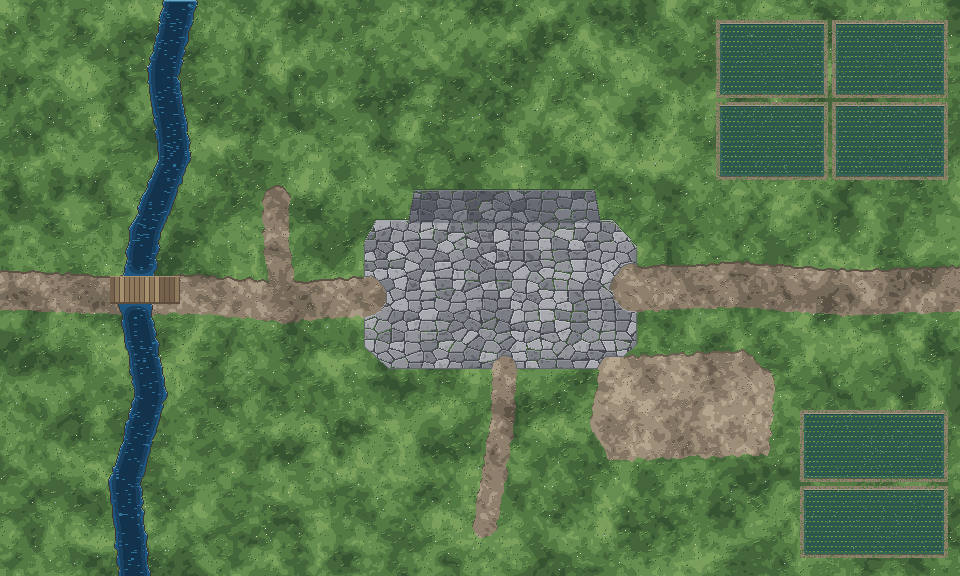
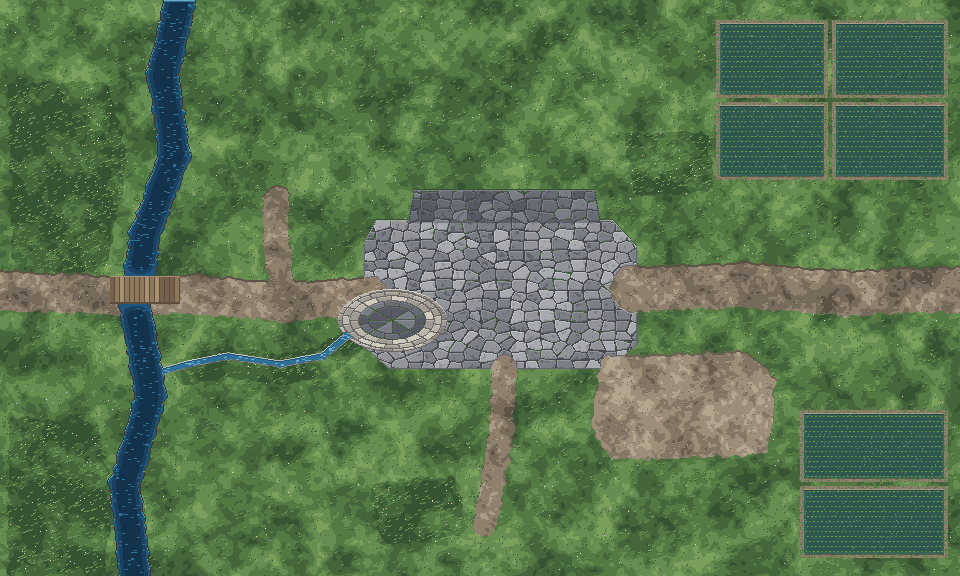
feat(world): the Lạc Hà spring stands at the centre of the floor's lightest ground
The spring that bears the village's name was a 52x30 px basin on the corner of
the square, on the square's own flags; no line led to it, and all eight trees
stood alone on a lawn (the style DNA says "clusters, never sprinkles").

Three new KINDS in the existing ground painter, placed by layout data:
- court: stones laid in rings round an ellipse, paler than the square, with a
  wet ring round the basin and a shadowed near edge;
- rill: the spring's overflow, a stone-lined runnel back to the stream
  (INTANGIBLE_BY_DESIGN: no blocker, no flooded cell);
- lush: undergrowth, so trees stand in groves over a dark mass.
No collision, anchor or prop footprint changes. The forest floor and its
layout data repaint to the same bytes; the village floor is identical under
PYTHONHASHSEED 1, 2 and 7.

Measured, because the first court was DARKER than the square (0.51 mean
luminance against 0.54, under its own mortar): each quarter of the paving is
now 0.61-0.66, the square 0.54, the meadow 0.45, and a test holds every
quarter 0.05 above both. The scene sync dropped six swaying tufts standing on
the new undergrowth (it did not count it as turf): fixed, and pinned at 27.

Not chosen: a great tree over the spring. At a 30-degree top-down view its
canopy projects north, over the west road, an NPC and the well.

Mutations 5/5 red: court removed, court moved 24 px, paving a tone darker, a
blocker over the runnel, sync not counting undergrowth.

diff --git a/tools/aetheria_art_pipeline/world/ground.py b/tools/aetheria_art_pipeline/world/ground.py
@@ -35,12 +35,17 @@ ST = style.load()
 
 # Material codes (the order is the paint priority when two shapes overlap: later wins).
 GRASS, STONE, STONE_DARK, EARTH, YARD, WATER, BRIDGE, PADDY, BUND, FOREST, LITTER, \
-    FISSURE, ROCK = range(13)
+    FISSURE, ROCK, COURT, RILL, LUSH = range(16)
 KINDS = {"grass": GRASS, "stone": STONE, "stone_dark": STONE_DARK, "earth": EARTH,
          "yard": YARD, "water": WATER, "bridge": BRIDGE, "paddy": PADDY, "forest": FOREST,
-         "litter": LITTER, "fissure": FISSURE, "rock": ROCK}
+         "litter": LITTER, "fissure": FISSURE, "rock": ROCK, "court": COURT, "rill": RILL,
+         "lush": LUSH}
 ROUGH = {EARTH: 2.2, YARD: 2.5, WATER: 2.0, STONE: 0.0, STONE_DARK: 0.0, BRIDGE: 0.0,
-         PADDY: 0.0, FOREST: 3.0, LITTER: 3.2, FISSURE: 1.6, GRASS: 2.5, ROCK: 3.0}
+         PADDY: 0.0, FOREST: 3.0, LITTER: 3.2, FISSURE: 1.6, GRASS: 2.5, ROCK: 3.0,
+         COURT: 0.0, RILL: 0.0, LUSH: 3.0}
+# Everything that is turf to its neighbours (a path's shadow lip, a bank's wet ring).
+TURF = (GRASS, LUSH)
+PAVED = (STONE, STONE_DARK, COURT)
 
 # Ramps [deep, shadow, base, light] — the DNA world roles where one exists, their neighbours
 # where the ramp needs a step the palette does not name.
@@ -69,6 +74,22 @@ MORTAR = (70, 72, 80)
 WET_BANK = (60, 54, 46)
 RICE = [(62, 110, 52), (86, 138, 62), (112, 160, 76)]
 FLOWERS = [(232, 224, 168), (214, 198, 230), (236, 236, 228)]
+# A LAID COURT (docs/VISUAL_CRAFT_WORKFLOW.md, proof W1): stones set in rings round one centre,
+# so the paving itself points at what stands there. Paler and warmer than the square's worn
+# flags — the one place in a village somebody dressed the stone — and it is the floor's
+# brightest material, which is what gives a frame of meadow a light end to its value range.
+RAMPS[COURT] = [(104, 100, 100), (134, 130, 126), (160, 156, 148), (186, 182, 170),
+                (208, 204, 190)]
+# ring edges as a fraction of the court's radius, and how many stones each ring is cut into:
+# the basin's bed, the wet ring the water darkens, two rings of paving, the kerb
+COURT_RINGS = [0.44, 0.62, 0.78, 0.92]
+COURT_STONES = [8, 12, 16, 20, 28]
+COURT_WET_RING = 1
+# Undergrowth: the meadow where nobody walks — a darker, taller sward thick with tufts and
+# flowers. It is how trees and water get a MASS under them instead of standing on a lawn.
+LUSH_DARKER = 0.3
+LUSH_TUFTS = 2.5
+LUSH_FLOWERS = 0.004
 
 
 def _hash(x, y, seed):
@@ -92,7 +113,10 @@ def _mask(w, h, ox, oy, shape, roughen=0.0, seed=0):
     materials meet in an organic line instead of a ruler edge."""
     m = Image.new("L", (w, h), 0)
     d = ImageDraw.Draw(m)
-    if "poly" in shape:
+    if "ellipse" in shape:
+        cx, cy, rx, ry = shape["ellipse"]
+        d.ellipse([cx - ox - rx, cy - oy - ry, cx - ox + rx, cy - oy + ry], fill=255)
+    elif "poly" in shape:
         d.polygon([(x - ox, y - oy) for x, y in shape["poly"]], fill=255)
     elif "rect" in shape:
         x, y, rw, rh = shape["rect"]
@@ -167,6 +191,7 @@ def paint(layout_path):
     base = KINDS[L.get("base", "grass")]
     mat = [base] * (w * h)
     region_masks = {}
+    courts = [shape["ellipse"] for shape in L["regions"] if shape["kind"] == "court"]
     for k, shape in enumerate(L["regions"]):
         code = KINDS[shape["kind"]]
         rough = ROUGH[code]
@@ -201,6 +226,19 @@ def paint(layout_path):
         if 0 <= x < w and 0 <= y < h:
             return mat[y * w + x]
         return GRASS
+
+    def court_stone(wx, wy):
+        """(ring, stone) of the court paving under a world pixel: rings round the centre of
+        the court it lies in, each ring cut into its own count of stones, alternate rings
+        turned half a stone so no joint runs straight through two of them."""
+        for cx, cy, rx, ry in courts:
+            u, v = (wx - cx) / float(rx), (wy - cy) / float(ry)
+            r = math.hypot(u, v)
+            if r <= 1.02:
+                ring = sum(1 for edge in COURT_RINGS if r >= edge)
+                turn = (math.atan2(v, u) / math.tau + 0.5 + 0.5 * (ring % 2) / COURT_STONES[ring])
+                return ring, int(turn * COURT_STONES[ring]) % COURT_STONES[ring]
+        return 0, 0
 
     for y in range(h):
         for x in range(w):
@@ -242,21 +280,61 @@ def paint(layout_path):
                     c = ramp[max(0, min(3, base_t))]
                     if (y - 1) >= 0 and stone_mortar[i - w]:
                         c = ramp[min(3, base_t + 1)]
-            elif m == GRASS:
+            elif m in TURF:
                 # broad sunlit drifts, a little mid-scale clumping, a whisper of grain: a
                 # meadow, not camouflage (the first pass had the contrast of a pattern)
                 t = 0.5 + 0.62 * (n_big[i] - 0.5) + 0.38 * (n_mid[i] - 0.5) \
                     + 0.18 * (n_fine[i] - 0.5)
+                if m == LUSH:
+                    t -= LUSH_DARKER
                 c = _tone(RAMPS[GRASS], t)
                 # the grass's shadow on lower ground just below it is painted on THAT ground;
                 # here: a darker blade line where grass meets a raised paving to its south
-                if at(x, y + 1) in (STONE, STONE_DARK):
+                if at(x, y + 1) in PAVED:
                     c = RAMPS[GRASS][0]
+            elif m == COURT:
+                ramp = RAMPS[COURT]
+                ring, stone = court_stone(wxp, wyp)
+                here = (ring, stone)
+                if at(x, y + 1) != COURT:
+                    c = ramp[0]              # the dais's own thickness, in shadow on the near side
+                elif at(x, y - 1) != COURT:
+                    c = ramp[4]              # ...and its far edge catching the key light
+                elif court_stone(wxp + 1, wyp) != here or court_stone(wxp, wyp + 1) != here:
+                    damp = ring <= COURT_WET_RING and _hash(wxp, wyp, 121) < 0.6
+                    # moss where the water reaches; elsewhere a tight pale joint — dressed
+                    # stone is laid close, and the square's dark mortar would grey the court
+                    c = RAMPS[GRASS][1] if damp else (MORTAR if ring <= COURT_WET_RING
+                                                     else ramp[0])
+                else:
+                    wet = ring <= COURT_WET_RING
+                    ramp = RAMPS[STONE_DARK] if wet else ramp
+                    base = 1 + int(_hash(ring * 131 + stone, 7, 123) * 2.6)
+                    if not wet and ring < len(COURT_RINGS):
+                        base += 1                                # the paving: the pale end
+                    c = ramp[base]
+                    if court_stone(wxp, wyp - 1) != here:
+                        c = ramp[min(len(ramp) - 1, base + 1)]   # the lit bevel
+            elif m == RILL:
+                # a stone-lined runnel a hand deep: the spring's overflow, stepped over, never
+                # waded (INTANGIBLE_BY_DESIGN — no blocker, no flooded cell)
+                above, below = at(x, y - 1), at(x, y + 1)
+                open_to = (RILL, COURT, WATER, BRIDGE)
+                laid = int(_hash(wxp // 4, 3, 125) * 1.99)       # kerb stones, 4 px each
+                if above not in open_to:
+                    c = RAMPS[COURT][3 + laid]      # the far kerb, lit
+                elif below not in open_to:
+                    c = RAMPS[COURT][1 - laid]      # the near kerb
+                elif at(x, y - 2) not in open_to:
+                    c = RAMPS[WATER][2]      # the kerb's shadow on the water
+                else:
+                    glint = _hash(wxp // 3, wyp, 127) < 0.16
+                    c = RAMPS[WATER][4] if glint else RAMPS[WATER][3]
             elif m in (EARTH, YARD):
                 ramp = RAMPS[m]
                 t = 0.45 * n_big[i] + 0.4 * n_mid[i] + 0.3 * (n_fine[i] - 0.5) + 0.12
                 c = _tone(ramp, t)
-                if at(x, y - 1) == GRASS or at(x, y - 2) == GRASS:
+                if at(x, y - 1) in TURF or at(x, y - 2) in TURF:
                     c = ramp[0]          # the turf edge casts its lip of shadow on the path
                 elif _hash(wxp, wyp, 31) < 0.012:
                     c = ramp[3]          # a pebble catching the light...
@@ -265,11 +343,11 @@ def paint(layout_path):
             elif m in (STONE, STONE_DARK):
                 ramp = RAMPS[m]
                 edge = [at(x + 1, y), at(x - 1, y), at(x, y + 1), at(x, y - 1)]
-                if any(e not in (STONE, STONE_DARK) for e in edge):
+                if any(e not in PAVED for e in edge):
                     # the kerb: paving ends in a laid edge, lit on its far side
-                    c = ramp[3] if at(x, y - 1) not in (STONE, STONE_DARK) else ramp[0]
+                    c = ramp[3] if at(x, y - 1) not in PAVED else ramp[0]
                 elif stone_mortar[i]:
-                    mossy = _hash(stone_ids[i] % 997, 3, 41) < 0.18 or at(x, y - 3) == GRASS
+                    mossy = _hash(stone_ids[i] % 997, 3, 41) < 0.18 or at(x, y - 3) in TURF
                     c = RAMPS[GRASS][1] if mossy and _hash(wxp, wyp, 43) < 0.6 else MORTAR
                 else:
                     base = 1 + int(_hash(stone_ids[i], 7, 47) * 2.6)     # a tone per stone
@@ -326,7 +404,7 @@ def paint(layout_path):
                 if _hash(wxp, wyp, 73) < 0.25 and not below_water:
                     c = RAMPS[GRASS][2]      # grass on the bund's crown
             # wet earth: one ring of dark bank around open water
-            if m in (GRASS, EARTH, FOREST):
+            if m in (GRASS, EARTH, FOREST, LUSH):
                 if WATER in (at(x + 1, y), at(x - 1, y), at(x, y + 1), at(x, y - 1)):
                     c = WET_BANK
             px[x, y] = c + (255,)
@@ -336,12 +414,16 @@ def paint(layout_path):
     for y in range(2, h - 2):
         for x in range(1, w - 1):
             i = y * w + x
-            if mat[i] not in (GRASS, FOREST):
+            if mat[i] not in (GRASS, FOREST, LUSH):
                 continue
-            ramp = RAMPS[mat[i]]
+            lush = mat[i] == LUSH
+            ramp = RAMPS[GRASS if lush else mat[i]]
             wxp, wyp = x + ox, y + oy
             hsh = _hash(wxp, wyp, 81)
-            if hsh < 0.010 * (0.4 + n_big[i]) and mat[i - 2 * w] == mat[i]:
+            if lush and hsh > 1.0 - LUSH_FLOWERS:
+                px[x, y] = FLOWERS[int(_hash(wxp, wyp, 83) * 2.99)] + (255,)
+            elif hsh < 0.010 * (LUSH_TUFTS if lush else 0.4 + n_big[i]) \
+                    and mat[i - 2 * w] == mat[i]:
                 px[x, y] = ramp[0] + (255,)
                 px[x, y - 1] = ramp[3] + (255,)
                 px[x - 1, y - 1] = ramp[4] + (255,)

diff --git a/tools/aetheria_art_pipeline/world/sync_scene.py b/tools/aetheria_art_pipeline/world/sync_scene.py
@@ -92,7 +92,7 @@ def sync(layout_id, scene_rel):
                 if pos:
                     x, y = int(float(pos.group(1))) - ox, int(float(pos.group(2))) - oy
                     if not (0 <= x < w and 0 <= y < h) or \
-                            mat[y * w + x] not in (ground.GRASS, ground.FOREST):
+                            mat[y * w + x] not in (ground.GRASS, ground.FOREST, ground.LUSH):
                         continue
         kept.append(b)
     # the floor: a tiled Ground becomes the PaintedGround drawn from this layout
